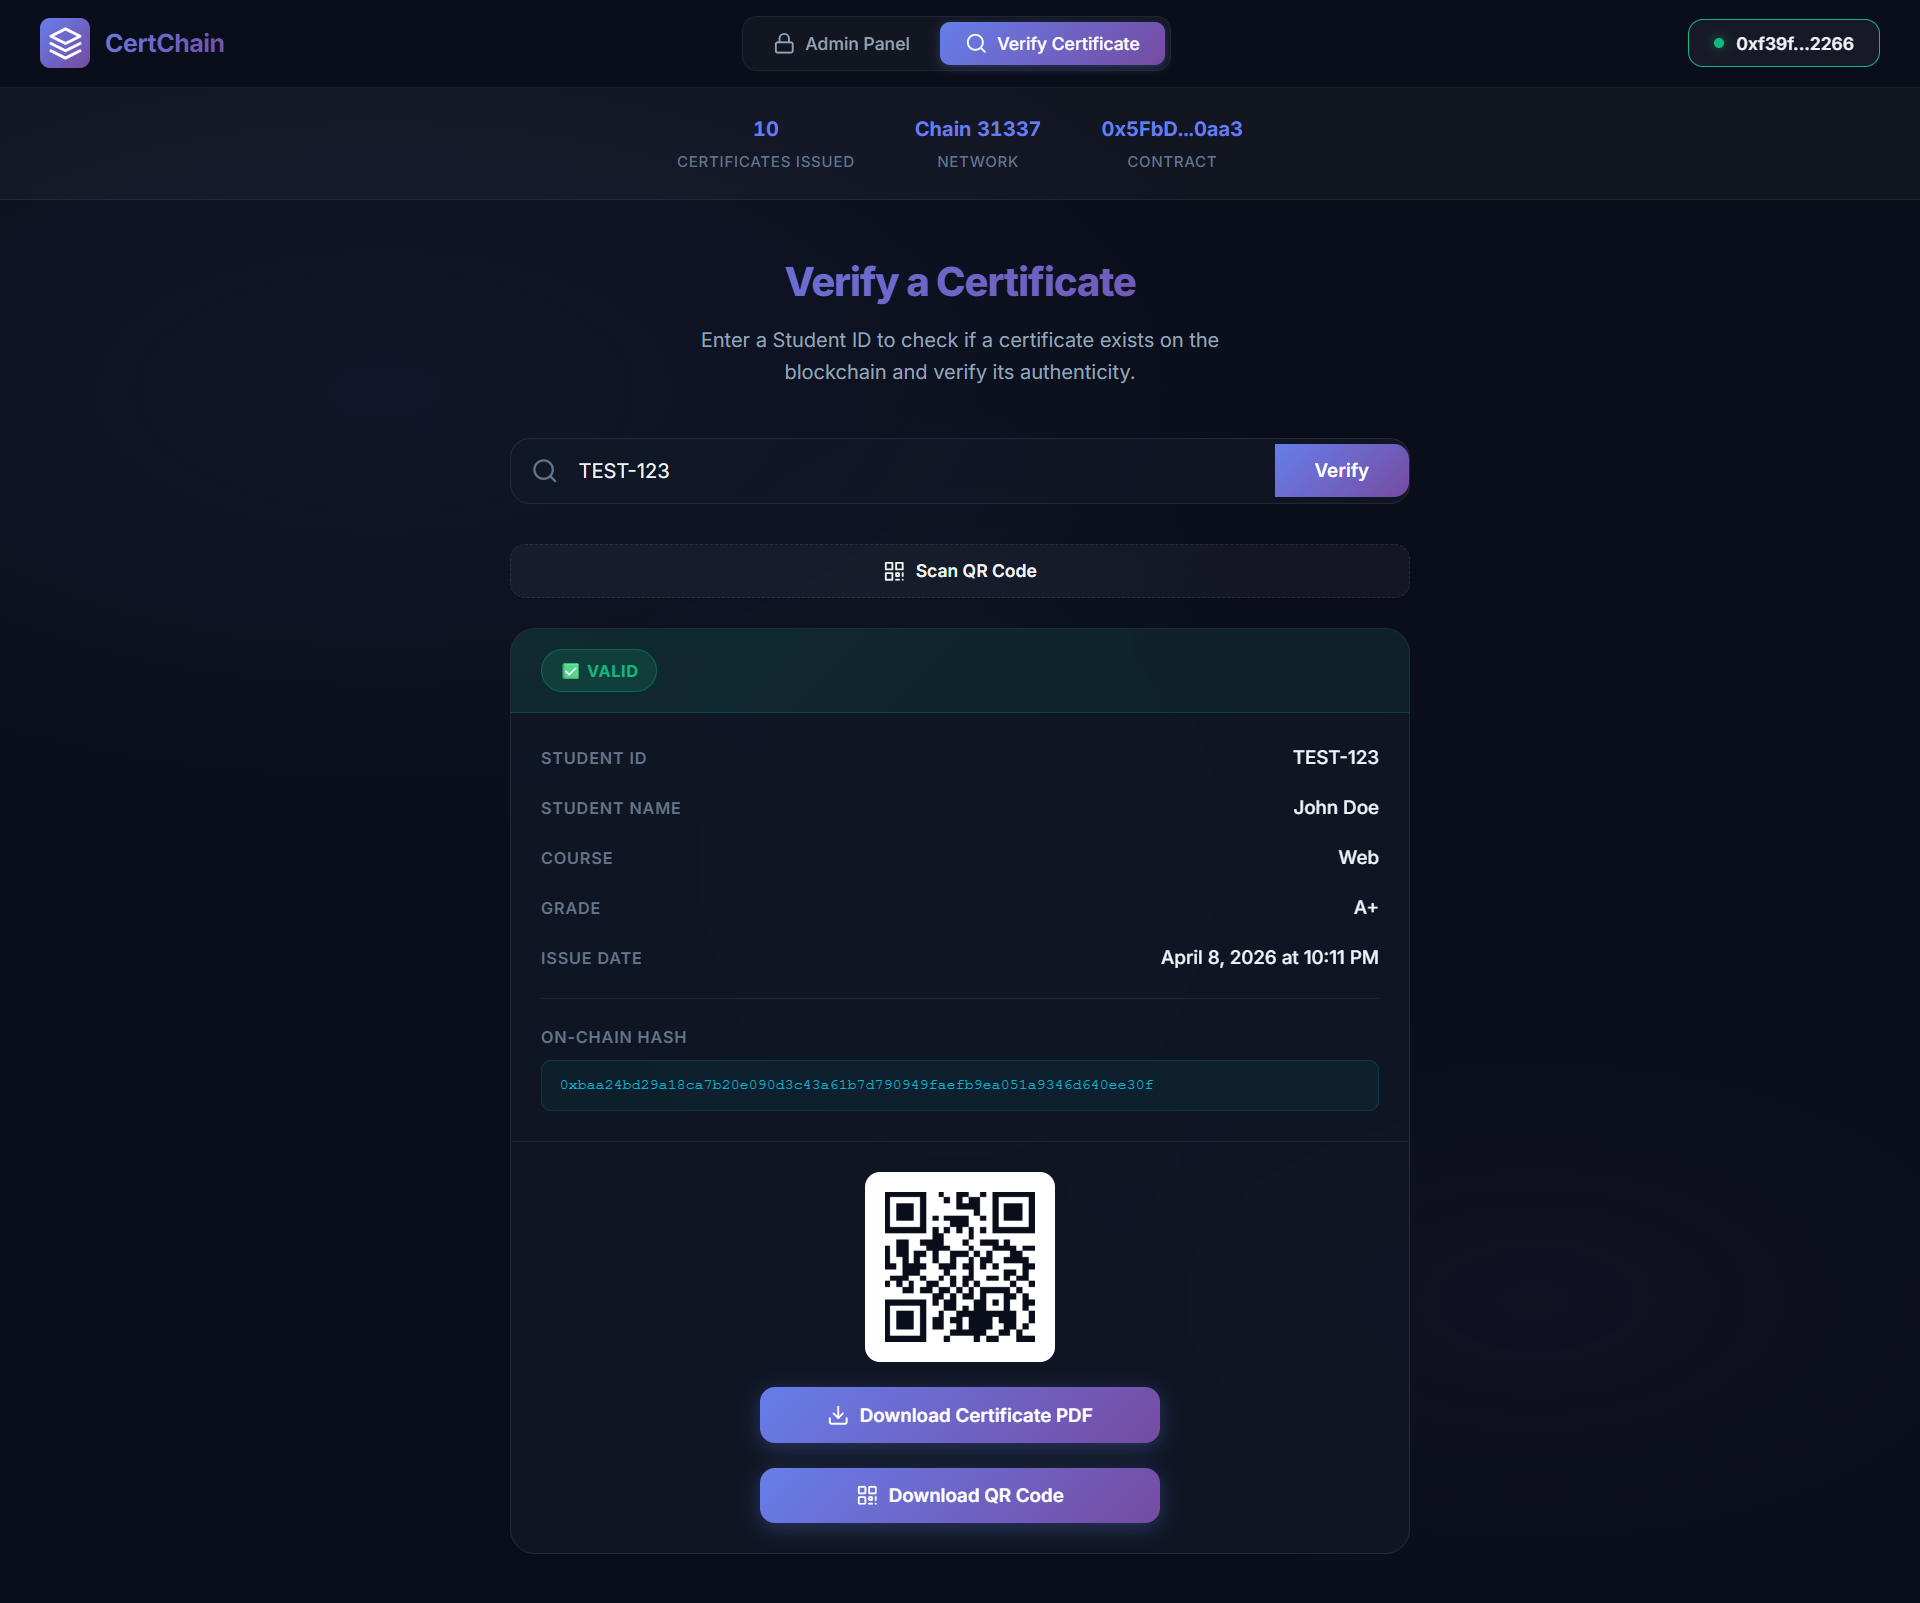
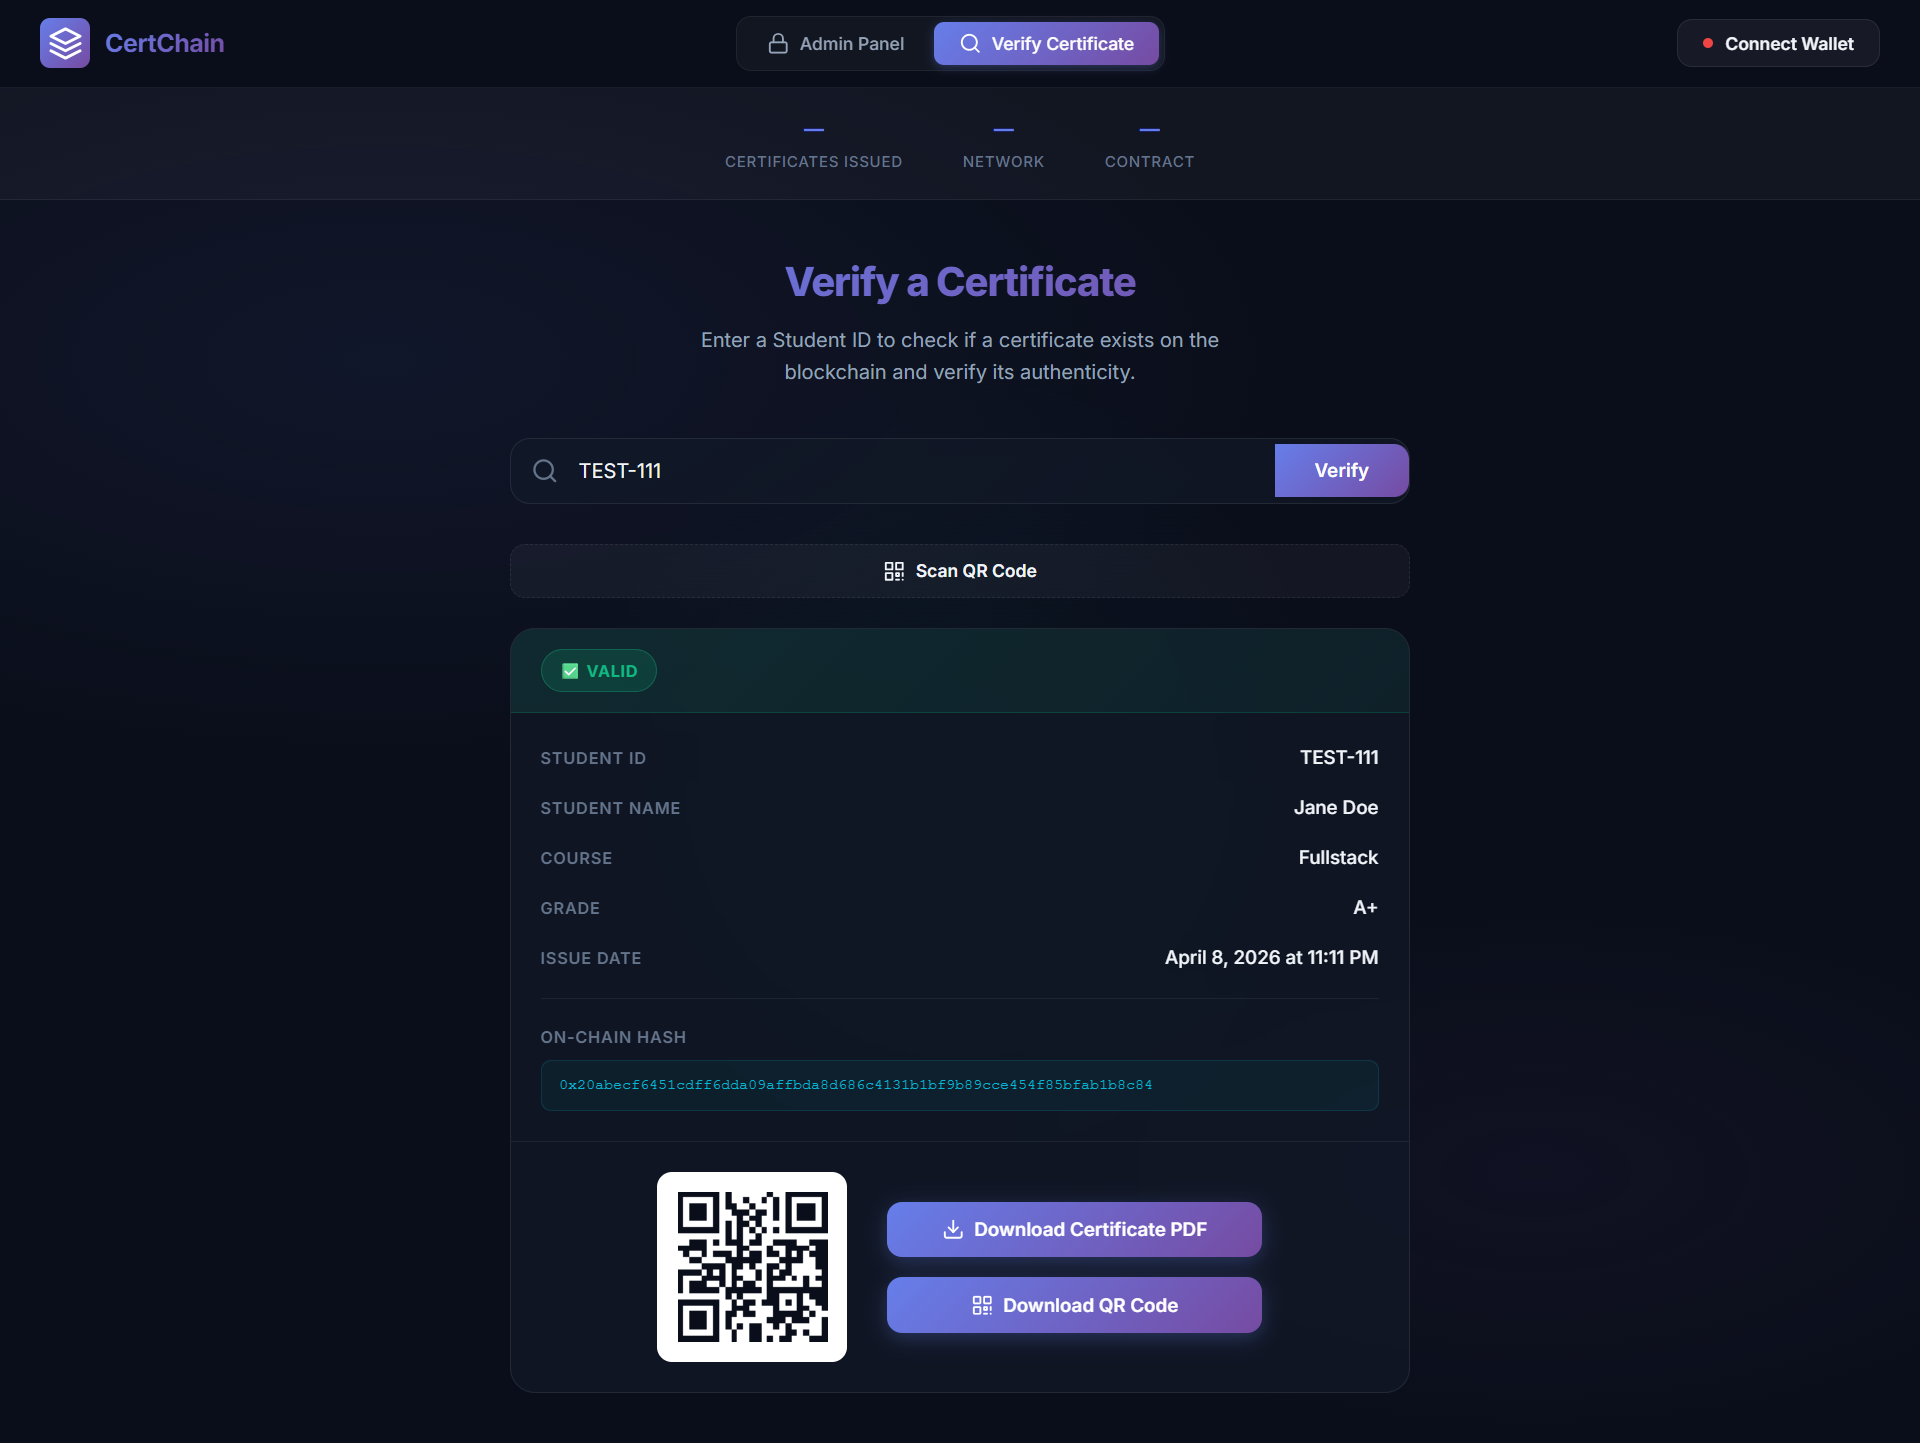
add cert exp image and fix buttons UI

diff --git a/frontend/index.html b/frontend/index.html
@@ -328,45 +328,47 @@
             </div>
             <div id="pdf-actions" class="pdf-actions hidden">
               <div id="result-qr-code" class="result-qr-code"></div>
-              <button id="download-pdf-btn" class="btn btn-primary btn-glow">
-                <svg
-                  width="18"
-                  height="18"
-                  viewBox="0 0 24 24"
-                  fill="none"
-                  stroke="currentColor"
-                  stroke-width="2"
-                  stroke-linecap="round"
-                  stroke-linejoin="round"
-                >
-                  <path d="M21 15v4a2 2 0 01-2 2H5a2 2 0 01-2-2v-4" />
-                  <polyline points="7 10 12 15 17 10" />
-                  <line x1="12" y1="15" x2="12" y2="3" />
-                </svg>
-                Download Certificate PDF
-              </button>
-              <button id="download-result-qr-btn" class="btn btn-primary btn-glow">
-                <svg
-                  width="18"
-                  height="18"
-                  viewBox="0 0 24 24"
-                  fill="none"
-                  stroke="currentColor"
-                  stroke-width="2"
-                  stroke-linecap="round"
-                  stroke-linejoin="round"
-                >
-                  <rect x="3" y="3" width="7" height="7" rx="1" />
-                  <rect x="14" y="3" width="7" height="7" rx="1" />
-                  <rect x="3" y="14" width="7" height="7" rx="1" />
+              <div class="pdf-action-buttons">
+                <button id="download-pdf-btn" class="btn btn-primary btn-glow">
+                  <svg
+                    width="18"
+                    height="18"
+                    viewBox="0 0 24 24"
+                    fill="none"
+                    stroke="currentColor"
+                    stroke-width="2"
+                    stroke-linecap="round"
+                    stroke-linejoin="round"
+                  >
+                    <path d="M21 15v4a2 2 0 01-2 2H5a2 2 0 01-2-2v-4" />
+                    <polyline points="7 10 12 15 17 10" />
+                    <line x1="12" y1="15" x2="12" y2="3" />
+                  </svg>
+                  Download Certificate PDF
+                </button>
+                <button id="download-result-qr-btn" class="btn btn-primary btn-glow">
+                  <svg
+                    width="18"
+                    height="18"
+                    viewBox="0 0 24 24"
+                    fill="none"
+                    stroke="currentColor"
+                    stroke-width="2"
+                    stroke-linecap="round"
+                    stroke-linejoin="round"
+                  >
+                    <rect x="3" y="3" width="7" height="7" rx="1" />
+                    <rect x="14" y="3" width="7" height="7" rx="1" />
+                    <rect x="3" y="14" width="7" height="7" rx="1" />
 
-                  <rect x="14" y="14" width="3" height="3" rx="0.5" />
-                  <line x1="21" y1="14" x2="21" y2="17" />
-                  <line x1="14" y1="21" x2="17" y2="21" />
-                  <line x1="21" y1="21" x2="21" y2="21" />
-                </svg>
-                Download QR Code
-              </button>
+                    <rect x="14" y="14" width="3" height="3" rx="0.5" />
+                    <line x1="21" y1="14" x2="21" y2="17" />
+                    <line x1="14" y1="21" x2="17" y2="21" />
+                    <line x1="21" y1="21" x2="21" y2="21" />
+                  </svg>
+                  Download QR Code
+                </button>
+              </div>
             </div>
           </div>
         </div>

diff --git a/frontend/index.css b/frontend/index.css
@@ -988,15 +988,29 @@ main {
     align-items: flex-start;
     gap: 0.25rem;
   }
+
+  .pdf-actions {
+    flex-direction: column;
+    gap: 1.5rem;
+  }
 }
 
 .pdf-actions {
   padding: 1.5rem;
   display: flex;
-  flex-direction: column;
+  flex-direction: row;
   align-items: center;
-  gap: 1.25rem;
+  justify-content: center;
+  gap: 2rem;
   border-top: 1px solid var(--border-subtle);
+}
+
+.pdf-action-buttons {
+  display: flex;
+  flex-direction: column;
+  gap: 1rem;
+  width: 100%;
+  max-width: 300px;
 }
 
 .pdf-actions.hidden {

diff --git a/README.md b/README.md
@@ -123,6 +123,7 @@ Open `http://127.0.0.1:3000` in your browser.
 
 ![Admin Panel of CertChain DApp](assets/admin.png)
 ![Verification Panel of CertChain DApp](assets/verify.png)
+![Certificate of CertChain DApp](assets/certificate.png)
 
 ## Project Structure
 
